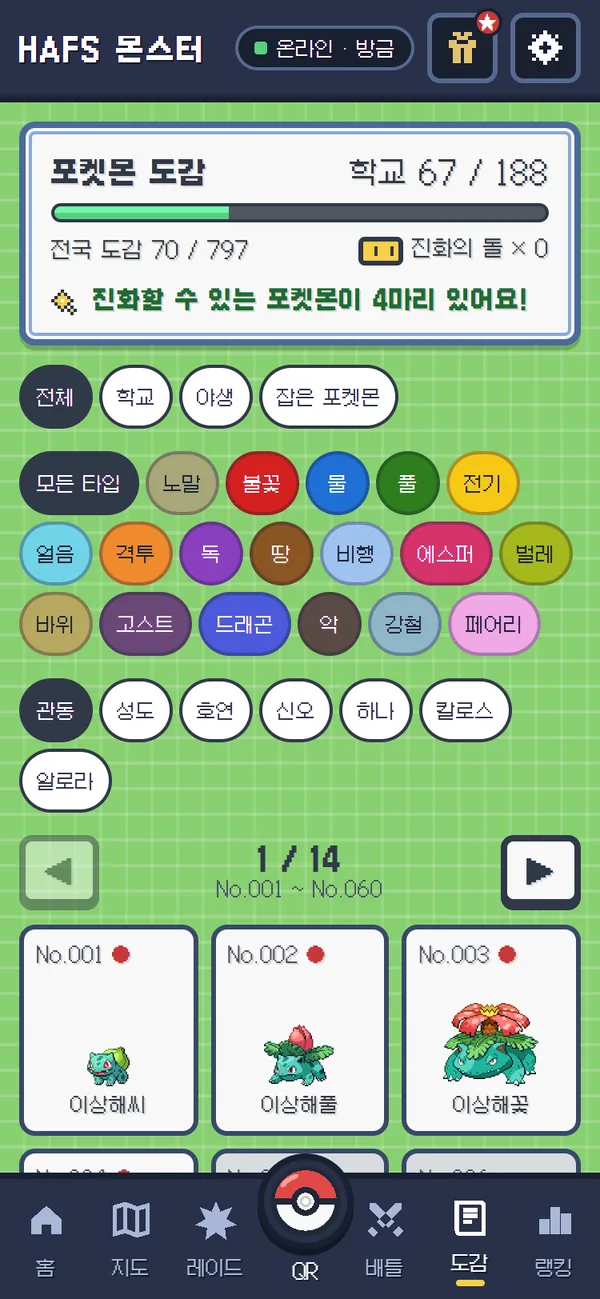
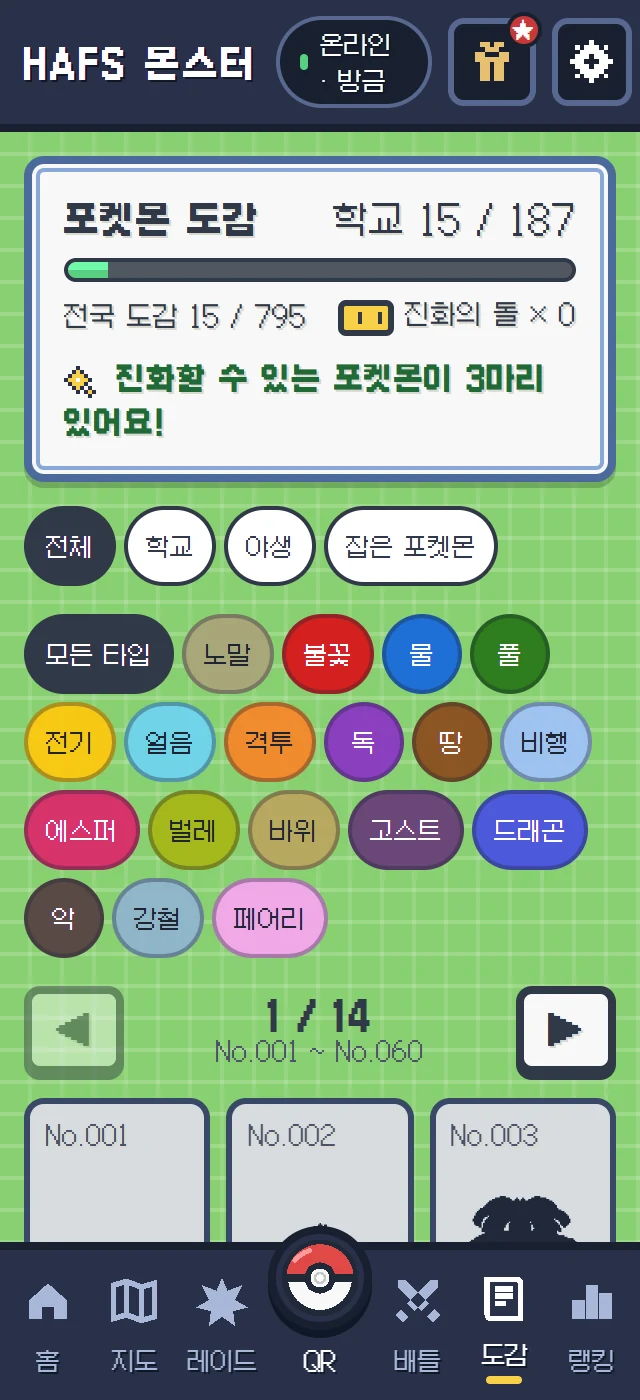
docs(readme): match this round — Ultra Beasts never hatch (only Ultra Space; egg screenshot cropped to the bag, the 전수목 hatch removed), dex region chips gone (new dex + last-page screenshots), branching evolutions picked at random by the server, 멜탄 · 멜메탈 removed, legends in safari special places, ad
Claude-Session: https://claude.ai/code/session_01PyWJXhh4uoM1MhwTZs3jNF

diff --git a/README.md b/README.md
@@ -68,10 +68,10 @@
 
 ### 도감
 
-<img src="docs/screens/dex.webp" width="300" alt="도감 화면: 위에 학교 도감 67/188 진행 막대, 그 아래 전체 · 학교 · 야생 · 잡은 포켓몬 고르기 칩과 18가지 타입 칩, 지방 칩, 1/14 쪽 넘기기, 이상해씨 · 이상해풀 · 이상해꽃 칸">
+<img src="docs/screens/dex.webp" width="300" alt="도감 화면: 위에 학교 도감 15/187 진행 막대와 '진화할 수 있는 포켓몬이 3마리 있어요!', 그 아래 전체 · 학교 · 야생 · 잡은 포켓몬 고르기 칩과 18가지 타입 칩, 1/14 쪽 넘기기, No.001 부터 시작하는 칸">
 
 - 전국도감 번호마다 한 칸, 60칸씩 쪽 넘기기
-- 고르기: 학교 / 야생 / 잡은 포켓몬 · 18가지 타입 · 지방 (관동 ~ 알로라, 맨 끝 '이벤트')
+- 고르기: 전체 / 학교 / 야생 / 잡은 포켓몬 · 18가지 타입 (쪽은 ◀ ▶ 로 넘김)
 - 칸을 누르면 분류 · 키 · 몸무게 · 도감 설명 · 특성 · 가진 수
 
 ### PC 박스
@@ -85,18 +85,19 @@
 
 <img src="docs/screens/roulette.webp" width="300" alt="진화의 돌 룰렛 상자: 꽝 · 1개 · 3개 칸과 노란 '룰렛 돌리기!' 단추, '오늘 15/15번 남음' 글자">
 
-- 포켓몬은 레벨이 오르면 진화합니다. 이브이처럼 여러 갈래로 진화하는 포켓몬은 모습을 고를 수 있어요.
+- 포켓몬은 레벨이 오르면 진화합니다. 이브이처럼 여러 갈래로 진화하는 포켓몬은 고를 수 없고, 어떤 모습이 될지 서버가 같은 확률로 정해요 (진화 레벨이 된 갈래가 있으면 그중에서, 진화의 돌을 쓰면 모든 갈래 중에서).
 - **진화의 돌**: 레벨이 모자란 포켓몬을 일찍 진화시키거나, 돌로 진화하는 포켓몬(라이츄 · 윈디 …)에 씁니다.
 - 룰렛: 5분마다 한 번, 하루 12번 (기본값). 결과(꽝 · 1개 · 3개 · 5개)는 서버가 정하고 확률 · 간격 · 횟수는 운영자가 바꿉니다. 퀴즈를 맞혀도 가끔 돌을 받아요.
 
 ### 알 부화
 
-<img src="docs/screens/eggs.webp" width="600" alt="왼쪽은 가방의 알 주머니: 걸음 세기 켜기 단추, 부화기 3칸 중 2칸에 초록 알과 노랑 알, 아래에 기다리는 보라 알. 오른쪽은 알에서 전수목이 태어난 부화 장면">
+<img src="docs/screens/eggs_bag.webp" width="300" alt="가방의 알 주머니: 걸음 세기 켜기 단추, 부화기 3칸 중 2칸에 초록 알과 노랑 알, 아래에 기다리는 보라 알">
 
 - 알 3종: 초록 1,000 · 노랑 2,500 · 보라 5,000걸음. 부화기 3칸에 넣은 알만 걸음이 쌓여요.
 - 웹앱은 폰의 걸음 수를 읽을 수 없어서, **앱이 열려 있고 화면이 켜져 있는 동안만** 움직임 센서로 걸음을 셉니다 (규칙적인 걸음만, 서버가 1분 200 · 하루 3만 걸음으로 자름).
 - 알 주머니를 보는 동안은 화면이 꺼지지 않게 잡아 둡니다 (화면 켜 두기, 지원하는 폰만).
 - 처음 가 보는 장소 QR 마다 부화기 알 +300걸음.
+- 알에서는 야생 포켓몬 (보라 알은 가끔 전설) 이 태어나요. **울트라비스트**(텅비드 · 매시붕 …)는 알에서 나오지 않아요 — 울트라 스페이스에서만 만날 수 있어요.
 
 ### 배틀 (1 대 1 · 2 대 2)
 
@@ -123,7 +124,8 @@
 
 지도 탭 → 사파리존. 도트 지도를 조이스틱으로 걸어 다니며 야생 포켓몬을 만나고 사파리볼로 잡습니다.
 
-- 사는 곳마다 다른 포켓몬: 초원 · 연못 가 · 해변(물 · 얼음) · 동굴 · 사막(땅 · 바위) · 울트라 스페이스(울트라비스트)
+- 사는 곳마다 다른 포켓몬: 초원 · 연못 가 · 해변(물 · 얼음) · 동굴 · 사막(땅 · 바위) · 울트라 스페이스(울트라비스트 — 알 · 걸음 · QR 야생 · 연습 배틀 상대로는 나오지 않고 여기서만)
+- 전설 포켓몬은 사파리존의 특별한 곳(꿈의 섬 · 성검의 숲 · 하늘 언덕 · 용의 굴 깊은 곳 · 별의 제단 · 고대 유적 · 발전소 2층 · 용암 지대)에 잠들어 있어요. 퀘스트 조건을 채우면 '깨어났다' 알림이 오고, 그 자리에서 말을 걸어 HAFS 볼로 잡아요 (한 사람에 한 번).
 - 입구에서 멀어질수록 레벨이 높아져요. 스프레이를 뿌리면 2분 동안 만남이 없어요.
 - 동굴은 여러 층 미로 (막다른 길 · 큰 바위 · 떨어지는 구멍 · 사다리)
 
@@ -150,12 +152,12 @@
 - 설정 단추 왼쪽의 선물 단추 = **이상한 소포**. 운영진이 알려 준 코드를 넣으면 소포가 열려요 (환상 포켓몬과 이벤트 포켓몬은 소포로만).
 - 특별한 포켓몬을 받으면 **전체 화면 연출**(검은 실루엣 → 빛나며 등장 + 짧은 팡파르)과 받은 이유가 나옵니다. 퀘스트 전설 · 방랑 전설(라이코 · 앤테이 · 스이쿤) · 도감 보상도 같은 연출.
 
-<img src="docs/screens/event.webp" width="360" alt="도감 마지막 쪽: No.806 부터 No.811 까지 아직 못 잡은 포켓몬이 검은 실루엣으로 보이고, 아래에 '이벤트 포켓몬 (No.810~): 이상한 소포로만 받을 수 있어요.' 안내">
+<img src="docs/screens/event.webp" width="320" alt="도감 마지막 쪽: No.803 · 804 · 805 · 806 · 807 · 810 · 811 아직 못 잡은 포켓몬이 검은 실루엣으로 보이고, 아래에 '이벤트 포켓몬 (No.810~): 이상한 소포로만 받을 수 있어요.' 안내">
 
 **이벤트 포켓몬** (새로 추가)
 
 - **지우개굴닌자**(No.810, 특성 유대변화) · **지우의 피카츄**(No.811)는 운영진이 만든 소포 코드로만 받을 수 있어요.
-- 야생 · 알 · 레이드에는 나오지 않고 도감 수에도 들어가지 않아요. 도감 맨 끝 '이벤트' 칸에서 볼 수 있어요.
+- 야생 · 알 · 레이드에는 나오지 않고 도감 수에도 들어가지 않아요. 도감 마지막 쪽에서 볼 수 있어요. (멜탄 · 멜메탈은 빠졌어요 — 그래서 No.807 다음이 No.810)
 
 ### 반짝이는 포켓몬
 
@@ -166,7 +168,7 @@
 
 <img src="docs/screens/minigames.webp" width="600" alt="왼쪽은 미니게임 목록: 포켓몬 서핑 · 폭탄 피하기 · 자이로 미로 · 땅따먹기 카드마다 설명과 시작 · 랭킹 단추. 오른쪽은 포켓몬 서핑 게임 화면: 파도 위를 달리며 바위를 피하는 모습, 위에 46m 거리">
 
-- 포켓몬 서핑 · 폭탄 피하기 · 자이로 미로(폰 기울이기) · 땅따먹기 · 포켓몬 등굣길
+- 포켓몬 서핑 · 폭탄 피하기 · 자이로 미로(폰 기울이기) · 땅따먹기 · 포켓몬 등굣길 (서핑은 대포무노, 등굣길은 멈춰 있으면 레지기가스가 쫓아와요)
 - 게임마다 랭킹이 따로 있고, 말이 안 되는 점수는 서버가 거절합니다.
 
 ### 랭킹과 별명
@@ -191,9 +193,9 @@
 **운영자 페이지** (탭마다 맨 위에 "이 탭에서 하는 일" 안내가 있어요)
 
 - 현황판: 게임 상태 · 접속 · 티켓 · 진화 성공률 · 오늘의 게임 숫자 (10초마다 새로 고침), 교장 · 교감 선생님 레이드 바로 시작
-- 축제 운영 (시작 · 마감 시각, 공지) · 장소 QR (지도 핀 · 인쇄) · 포켓몬 / 퀴즈 · 레이드 열기
+- 축제 운영 (시작 · 마감 시각, 공지) · 장소 QR (지도 핀 · 인쇄) · 포켓몬 / 퀴즈 (계열 복제: 이미 있는 계열을 복사해 선생님 포켓몬을 따로 넣기) · 레이드 열기
 - 학생 / 계정 (비밀번호 초기화 요청 · 문의함 · 물건 · 알 주기) · 미니게임 · 성장 / 보상 (배틀 시간표 날씨 · 필드, 알 걸음, 반짝이 확률)
-- 전설 / 소포: 소포 코드 만들기 (포켓몬 · 물건, 기간 · 인원 제한) · 운영진 아이디 · 고급 설정
+- 전설 / 소포: 소포 코드 만들기 (포켓몬 · 물건, 기간 · 인원 제한) · 운영진 아이디 · 고급 설정 (설정마다 한 줄 설명)
 
 **부스 화면**: 학생의 티켓 QR 을 찍거나 고유번호를 넣어 포켓몬을 줍니다.
 
